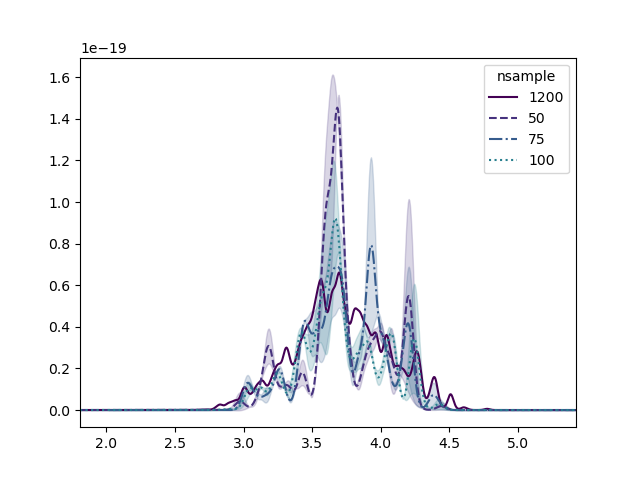
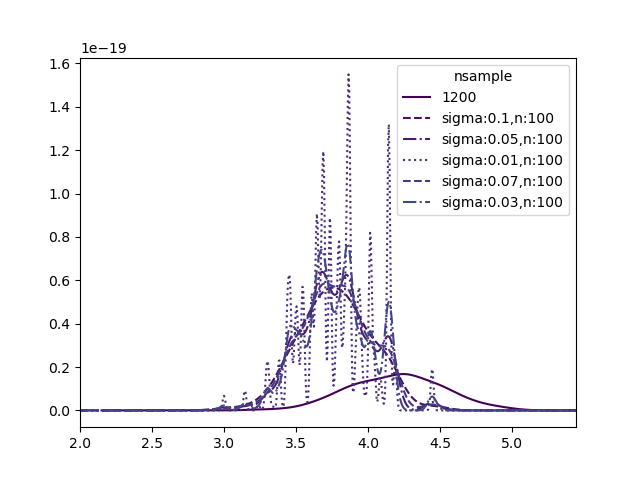
Runscript changes, KRR script changes

diff --git a/scripts/PROCESS/krr.py b/scripts/PROCESS/krr.py
@@ -9,6 +9,8 @@ import subprocess
 
 import glob
 
+import random
+
 def geometry_to_features(geometry):
     lines = geometry.split('\n')
     atoms = [line.split()[2] for line in lines if len(line.split()) >= 5]
@@ -52,23 +54,65 @@ def train_and_predict(X_sample_trans, Y_sample, X_unknown_trans):
     model.fit(X_sample_trans, Y_sample)
     return model.predict(X_unknown_trans)
 
-def write_predictions(pred_energy, pred_tdm):
-    with open('predictions.txt', 'w') as f:
+def write_predictions(pred_energy, pred_tdm, outdir):
+    with open(f'{outdir}predictions.txt', 'w') as f:
         for energy, tdm in zip(pred_energy, pred_tdm):
             f.write(str(energy) + '\n')
             f.write(' '.join(map(str, tdm)) + '\n')
 
-def run_commands():
-    subprocess.call('../PROCESS/CalcSpectrumV2.sh ./predictions.txt 1198 1 0.03 0.005 false false false 1 ../PROCESS/ ./ cv 0.01', shell=True)
-    subprocess.call('python3 ../POSTPROCESS/postprocess.py ""', shell=True)
+def run_commands(n, pred_dir):
+    subprocess.call(f'../PROCESS/CalcSpectrumV2.sh {pred_dir} {n} 1 0.01 0.005 false false false 1 ../PROCESS/ ../../mol/KRR/ cv 0.01', shell=True)
+    subprocess.call('python3 ../POSTPROCESS/postprocess.py "../../mol/KRR/"', shell=True)
 
-X, Y, Y_energy, Y_tdm, data = [], [], [], [], {}
-X, Y, data = process_file('../../mol/Spectrum_data/Spectrum_in/acrolien_a.1-1200.n1200.s1.exc.txt', X, Y_energy, Y_tdm, data)
-print(data)
+def pick_geometries(name, nsample, random, step, seed):
+    # Define the command as a string
+    input_file = f"../../mol/{name}_movie.xyz"
+    command = f'../LAUNCH/PickGeoms.sh {input_file} ../../mol/KRR/geoms_KRR.xyz {nsample} {random} {step} {seed}'
+    # Use subprocess to run the command
+    subprocess.call(command, shell=True)
+
+def process_geoms_file(file_path):
+    with open(file_path, 'r') as f:
+        lines = f.readlines()
+    geometries = []
+    for line in lines:
+        if line.strip().isdigit():
+            # Start of a new geometry, but only if the previous geometry has data
+            if not geometries or geometries[-1][0]:
+                geometries.append(([], []))
+        else:
+            # Information of an atom in the current geometry
+            atom, *coordinates = line.split()
+            coordinates = [float(coord) for coord in coordinates]
+            geometries[-1][0].append(atom)
+            geometries[-1][1].append(coordinates)
+
+    print(len(geometries))
+    return geometries
+
+if not os.path.exists("../../mol/KRR/"):
+    os.makedirs("../../mol/KRR/")
+else:
+    files = glob.glob("../../mol/KRR/*")
+    for f in files:
+        os.remove(f)
+        
+# Create geoms.xyz file with n samples 
+n = 3000
+pick_geometries("acrolien", n, "true", 1, 1)
+# Process the geoms.xyz file
+X = process_geoms_file('../../mol/KRR/geoms_KRR.xyz')
+print(X)
+
+
+# X, Y, Y_energy, Y_tdm, data = [], [], [], [], {}
+# X, Y, data = process_file('../../mol/Spectrum_data/Spectrum_in/acrolien_a.1-1200.n1200.s1.exc.txt', X, Y_energy, Y_tdm, data)
+# print(data)
 
 X_sample, Y_sample, Y_sample_energy, Y_sample_tdm, data_sample = [], [], [], [], {}
 X_sample, Y_sample, data_sample = process_file('../../mol/Spectrum_data/Spectrum_out/out_50/acrolien.1-1200.n50.s1.exc.txt', X_sample, Y_sample_energy, Y_sample_tdm, data_sample)
-print(data_sample)
+#print(data_sample)
+print(X_sample)
 
 # get features
 X_trans, X_sample_trans, X_unknown_trans = get_features(X, X_sample, "coloumb")
@@ -79,6 +123,7 @@ predictions = train_and_predict(X_sample_trans, Y_sample, X_unknown_trans)
 pred_energy = predictions[:,0]
 pred_tdm = predictions[:,1:]
 
-write_predictions(predictions[:,0], predictions[:,1:])
+write_predictions(predictions[:,0], predictions[:,1:], "../../mol/KRR/")
 
-run_commands()
+run_commands(len(X_unknown_trans), "../../mol/KRR/predictions.txt")
+#run_commands(n)

diff --git a/scripts/POSTPROCESS/post.py b/scripts/POSTPROCESS/post.py
@@ -22,6 +22,7 @@ line_styles = itertools.cycle(['--', '-.', ':'])
 
 # Find all .ev.cross.dat files in the directory and its subdirectories
 files = glob.glob(os.path.join(directory, '**', '*.ev.cross.dat'), recursive=True)
+print(files)
 
 # Sort files by nsample
 files.sort(key=lambda x: int(os.path.basename(x).split('.')[2][1:]))
@@ -32,6 +33,8 @@ N = len(files)
 # Get the colormap
 colourmap = colormaps.get_cmap('viridis')
 colors = (colourmap(i/N) for i in range(N))
+
+nlines_per_plot = 6
 
 # Create a new figure
 plt.figure()
@@ -45,17 +48,19 @@ for file in files:
     # Load the data from the file
     data = np.loadtxt(file)
 
-    # If this file has more samples, update max_samples and max_file
-    if data.shape[0] > max_samples:
-        max_samples = data.shape[0]
-        max_file = file # After the loop, plot the data from the file with the most samples
-        # Extract nsample from the filename
-        max_nsample_filename = os.path.basename(file)
-        max_nsample = max_nsample_filename.split('.')[2][1:]  # Assumes the format is always 'n'
+    # Extract nsample from the filename
+    filename = os.path.basename(file)
+    nsample = int(filename.split('.')[2][1:])  # Assumes the format is always 'n'
+    
+    if nsample > max_samples:
+        max_samples = nsample
+        max_file = file
+
+print(max_samples)
 
 max_data = np.loadtxt(max_file)
 color=next(colors)
-plt.plot(max_data[:, 0], max_data[:, 1], label=max_nsample, color=color)
+plt.plot(max_data[:, 0], max_data[:, 1], label=max_samples, color=color)
 
 # Initialize a counter for the number of lines plotted on the current graph
 lines_plotted = 1
@@ -65,12 +70,12 @@ for file in files:
     if file == max_file:
         continue
     # If we've already plotted 4 lines on the current graph, create a new graph
-    if lines_plotted % 4 == 0:
+    if lines_plotted % nlines_per_plot == 0:
         line_styles = itertools.cycle(['--', '-.', ':'])
         colors = (colourmap(i/N) for i in range(N))
         color = next(colors)
         plt.figure()
-        plt.plot(max_data[:, 0], max_data[:, 1], color=color, label=max_nsample)
+        plt.plot(max_data[:, 0], max_data[:, 1], color=color, label=max_samples)
         lines_plotted += 1
 
     # Load the data from the file
@@ -85,29 +90,32 @@ for file in files:
     # Extract nsample from the filename
     filename = os.path.basename(file)
     nsample = filename.split('.')[2][1:]  # Assumes the format is always 'n'
-    
+    sigma = float('.'.join(filename.split('.')[3:5])[1:])  # Assumes the format is always 's'
+    print(filename.split('.'))
     color=next(colors)
+
+    label = "sigma:"+str(sigma)+",n:"+str(nsample)
 
     if data.shape[1] > 2:
         # Plot the data with error bars
         plt.fill_between(data[:, 0], data[:, 1] - data[:, 2], data[:, 1] + data[:, 2],color=color, alpha=0.2)
 
     # Plot the data with nsample as the label and the next line style in the cycle
-    plt.plot(data[:, 0], data[:, 1], label=nsample, linestyle=next(line_styles),color=color)
+    plt.plot(data[:, 0], data[:, 1], label=label, linestyle=next(line_styles),color=color)
 
     # Increment the counter
     lines_plotted += 1
 
     # If we've plotted 4 lines on the current graph, save it and reset the counter
-    if lines_plotted % 4 == 0:
+    if lines_plotted % nlines_per_plot == 0:
         # Add a legend
         plt.legend(title='nsample')
 
         # Save the figure
-        plt.savefig(f'{outdir}combined_plot_{lines_plotted // 4}.png')
+        plt.savefig(f'{outdir}combined_plot_{lines_plotted // nlines_per_plot}.png')
 
 # If there are less than 4 lines on the last graph, save it
-if lines_plotted % 4 != 0:
+if lines_plotted % nlines_per_plot != 0:
     # Add a legend
     plt.legend(title='nsample')
 

diff --git a/scripts/POSTPROCESS/postprocess.py b/scripts/POSTPROCESS/postprocess.py
@@ -5,11 +5,11 @@ import glob
 
 # Get the output directory from the command line arguments
 workdir= sys.argv[1]
-data = sys.argv[2]
+#data = sys.argv[2]
 
 # Construct the full path to the data file
-data_file = workdir+data  # replace 'data.txt' with your actual data file name
-print(data_file)
+#data_file = workdir+data  # replace 'data.txt' with your actual data file name
+#print(data_file)
 
 # Find all .dat files in the directory
 data_files = glob.glob(workdir + '*.dat')
